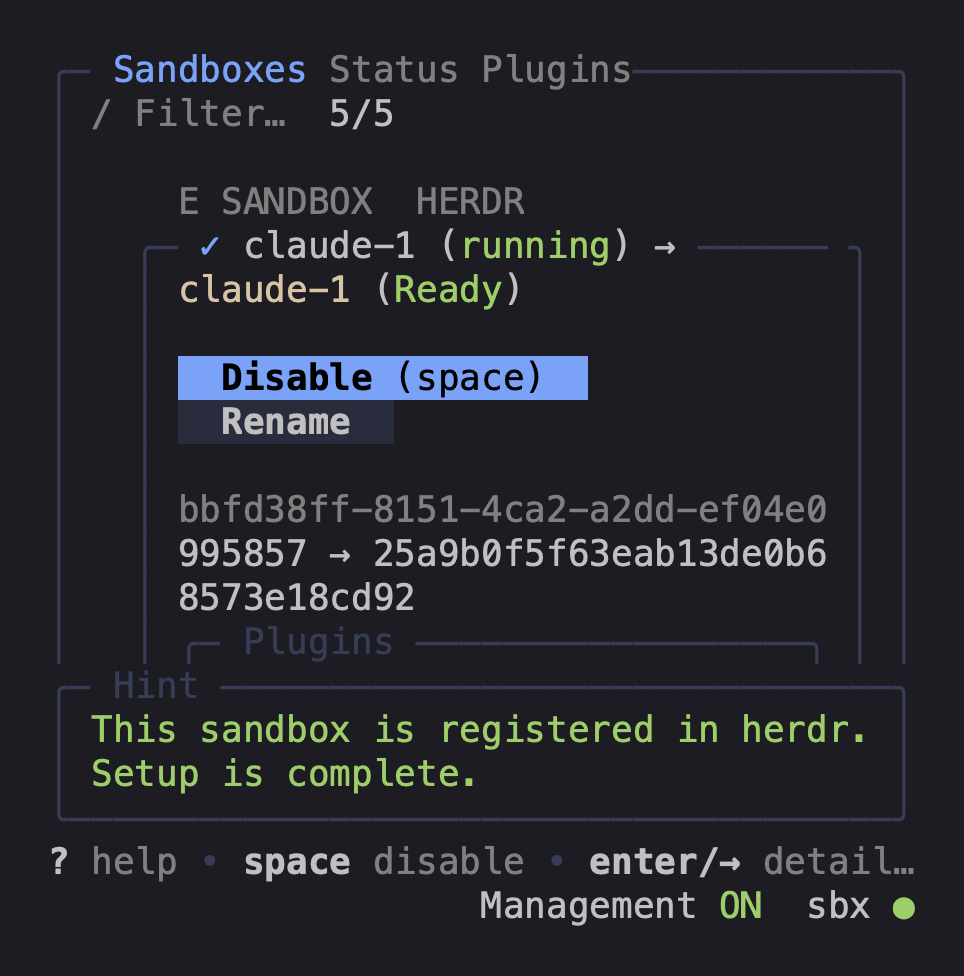
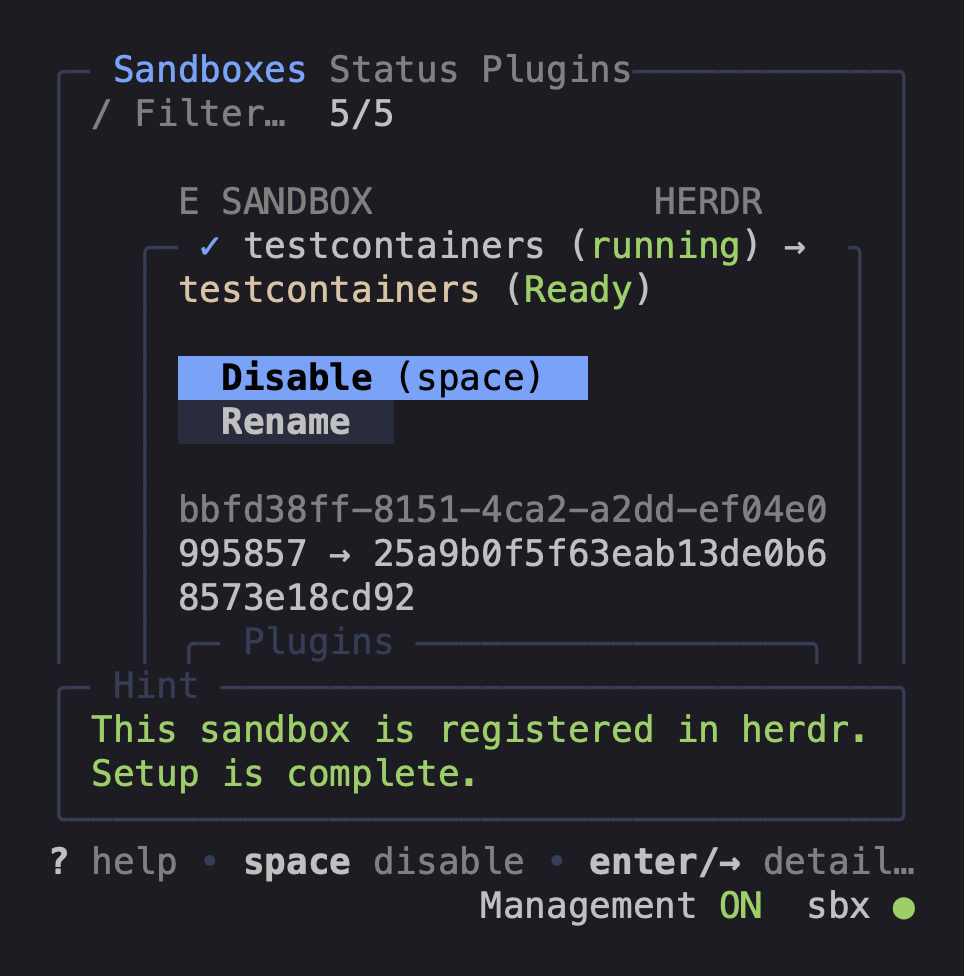
Use public project names in screenshot examples

Changed region(s): [[0.1867, 0.1844, 0.8402, 0.3074]]

diff --git a/internal/panel/screenshots_test.go b/internal/panel/screenshots_test.go
@@ -40,7 +40,7 @@ func TestCaptureScreenshots(t *testing.T) {
 	m.expanded, m.focus = m.selected, "actions"
 	m.button = 1
 	at := time.Date(2026, 10, 19, 12, 30, 0, 0, time.UTC)
-	m.errors = []uiError{{ref: "claude", code: store.CodeGuestPluginSync, scope: store.StatusKey("claude", m.selected), pluginID: "claude-2", detail: "Manual intervention required. The herdr plugin build could not finish.", recovery: "Repair the build dependencies in this sandbox, then choose Re-sync to check the plugin again.", output: "Build step 1 failed: a required build dependency is unavailable.", count: 3, firstSeen: at, seen: at}}
+	m.errors = []uiError{{ref: "a3f9c1", code: store.CodeGuestPluginSync, scope: store.StatusKey("examples", m.selected), pluginID: "coil3d", detail: "Manual intervention required. The herdr plugin build could not finish.", recovery: "Repair the build dependencies in this sandbox, then choose Re-sync to check the plugin again.", output: "Build step 1 failed: a required build dependency is unavailable.", count: 3, firstSeen: at, seen: at}}
 	write("sandbox-details", m)
 	m = screenshotModel()
 	m.width, m.height = 110, 28
@@ -62,7 +62,7 @@ func TestCaptureScreenshots(t *testing.T) {
 	}
 	write("status", m)
 	m = screenshotModel()
-	m.page, m.pluginSelected = "Plugins", "claude-1"
+	m.page, m.pluginSelected = "Plugins", "testcontainers"
 	m.height = 16
 	write("plugins", m)
 	m = screenshotModel()
@@ -75,8 +75,8 @@ func screenshotModel() *model {
 		queries: map[string]string{}, pending: map[string]bool{}, pendingChoices: map[string]pluginChoiceChange{},
 		workerEnabled: true, workerLoaded: true,
 		worker:   store.WorkerStatus{State: "running", LastSync: time.Now()},
-		plugins:  []guestplugins.Choice{{ID: "claude-1", Enabled: true, Installed: true}, {ID: "claude-2", Installed: true}, {ID: "claude-3", Installed: true, UnsupportedReason: "This herdr plugin does not support Linux sandboxes."}},
-		settings: store.GuestPluginDefaults{Plugins: map[string]store.GuestPluginDefault{"claude-1": {Enabled: true}, "claude-2": {Enabled: false}}},
+		plugins:  []guestplugins.Choice{{ID: "testcontainers", Enabled: true, Installed: true}, {ID: "coil3d", Installed: true}, {ID: "herdr-sbx", Installed: true}},
+		settings: store.GuestPluginDefaults{Plugins: map[string]store.GuestPluginDefault{"testcontainers": {Enabled: true}, "coil3d": {Enabled: false}}},
 		checks:   precheck.Result{Checks: []precheck.Check{{Name: "herdr", Level: precheck.Ready, Detail: "herdr 0.9.0"}, {Name: "Sandbox daemon", Level: precheck.Ready, Detail: "Running"}, {Name: "Sandbox SSH", Level: precheck.Ready, Detail: "Configured"}}},
 	}
 	choices := []store.EnabledChoice{store.Enabled, store.Enabled, store.Disabled, store.Disabled, store.Disabled}
@@ -90,8 +90,8 @@ func screenshotModel() *model {
 		"e8321142-7f39-4b84-9ac8-11fa7080d9fb",
 	}
 	profileIDs := []string{"25a9b0f5f63eab13de0b68573e18cd92", "92c3df06bd5143e7a76d1f608d841b2c", "4cd97acb00af4ce68239298e9f082936"}
-	for i, name := range []string{"claude-1", "claude-2", "claude-3", "claude-4", "claude-5"} {
-		row := registration.SandboxRow{Sandbox: sbx.Sandbox{ID: sandboxIDs[i], Name: name, Status: states[i]}, Scope: "claude", Enabled: choices[i], Label: name, EntryPresent: i < 3,
+	for i, name := range []string{"testcontainers", "coil3d", "herdr-sbx", "testcontainers-go", "testcontainers-java"} {
+		row := registration.SandboxRow{Sandbox: sbx.Sandbox{ID: sandboxIDs[i], Name: name, Status: states[i]}, Scope: "examples", Enabled: choices[i], Label: name, EntryPresent: i < 3,
 			Status: store.SandboxStatus{Connection: connections[i], ObservedAt: time.Now(), GuestServer: &store.GuestServerObservation{Version: "0.9.0", Current: true, CheckedAt: time.Now()}}}
 		native := i == 0
 		if row.EntryPresent {
